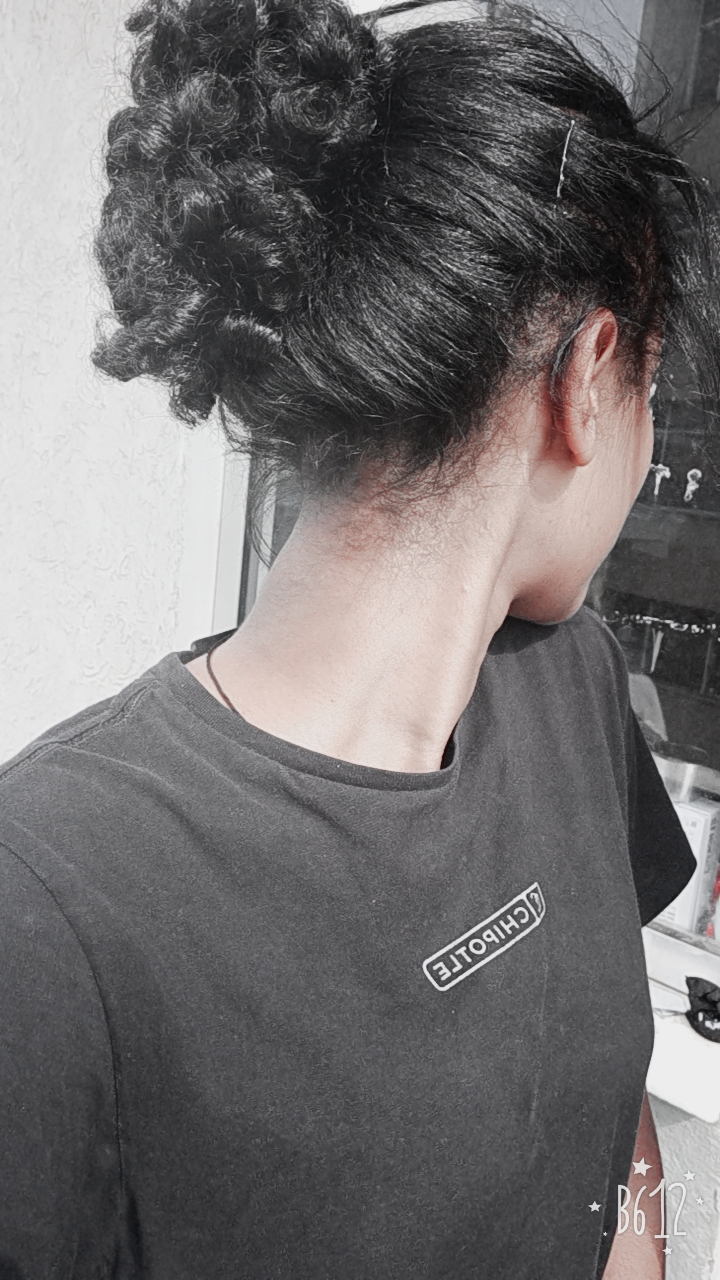
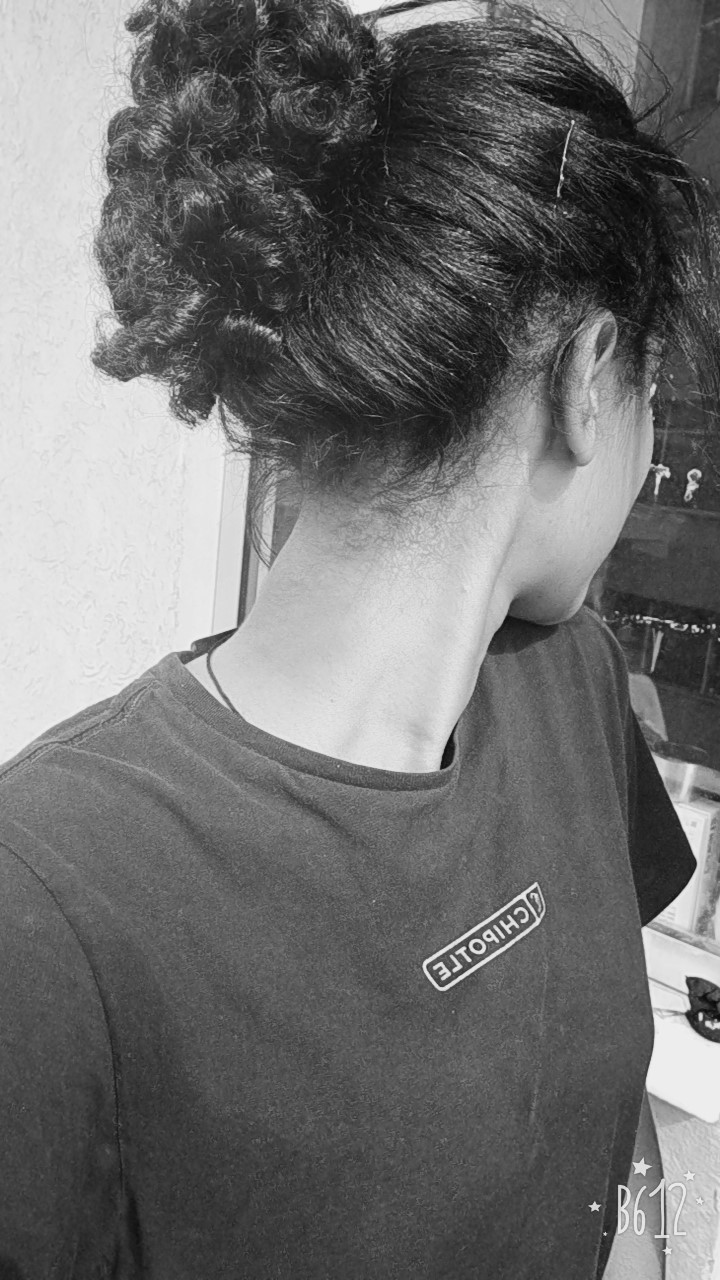
changing pictures in the graphy page

diff --git a/graphy.html b/graphy.html
@@ -22,16 +22,16 @@
                       
         </tr>
     </table>
-    <h4>Some shoots that I take</h4>
-    <table padding="30px" background="./image/black1.jpg">
+    <h2>BLACK COLLECTIONS</h2>
+    <table background="./image/black1.jpg">
         <tr width="100%" height="100%">
-            <td width="30%"><img src="./image/44.jpg" width="100%" height="50%"></td>
-            <td width="30%"><img src="./image/r2.jpg" width="100%" height="50%" ></td>
-            <td width="30%"><img src="./image/2.jpg"width="100%" height="50%"></td>
+            <td width="30%"><img src="./image/44.jpg" width="100%" height="40%"></td>
+            <td width="30%"><img src="./image/r2.jpg" width="100%" height="35%" ></td>
+            <td width="30%"><img src="./image/B3.jpg"width="100%" height="50%"></td>
         </tr>
          <tr width="100%">
-            <td width="30%"><img src="./image/b1.jpg"width="100%" height="50%"></td>
-            <td width="30%"><img src="./image/me.jpg"width="100%" height="50%"></td>
+            <td width="30%"><img src="./image/b1.jpg"width="100%" height="30%"></td>
+            <td width="30%"><img src="./image/me.jpg"width="100%" height="30%"></td>
             <td width="30%"><img src="./image/sis2.jpg"width="100%" height="50%"></td>
         </tr>
          <tr>
@@ -42,12 +42,12 @@
         <tr>
             <td width="33%"><img src="./image/Road.jpg"width="100%" height="50%"></td>
             <td width="33%"><img src="./image/b4.jpg"width="100%" height="50%"></td>
-            <td width="33%"><img src="./image/b3.jpg"width="100%" height="50%"></td>
+            <td width="33%"><img src="./image/2.jpg"width="100%" height="40%"></td>
         </tr>
         <tr>
-            <td width="33%"><img src="./image/sii.jpg"width="100%" height="50%"></td>
-            <td width="33%"><img src="./image/kid.jpg"width="100%" height="50%"></td>
-            <td width="33%"><img src="./image/si.jpg"width="100%" height="50%"></td>
+            <td width="33%"><img src="./image/sii.jpg"width="100%" height="30%"></td>
+            <td width="33%"><img src="./image/kid.jpg"width="100%" height="30%"></td>
+            <td width="33%"><img src="./image/si.jpg"width="100%" height="30%"></td>
         </tr> 
     </table>
     <hr>

diff --git a/about.html b/about.html
@@ -49,9 +49,9 @@
         <li>Helping someone who is in need</li>
         <li>Reading books</li>
     </ul>
-    <p>In addition to this I have some hobbies that recreat me as some point, like taking shoot of my friends unexpectedly makes fun for me.</p>
+    <p>In addition to this I have some hobbies that recreat me as some point, like taking shoot of my friends unexpectedly makes fun for me. And watching the pictures in black is makes me happy.
+    </p>
     </td>
-        </tr>
     </table>
     <hr>
 <table>
